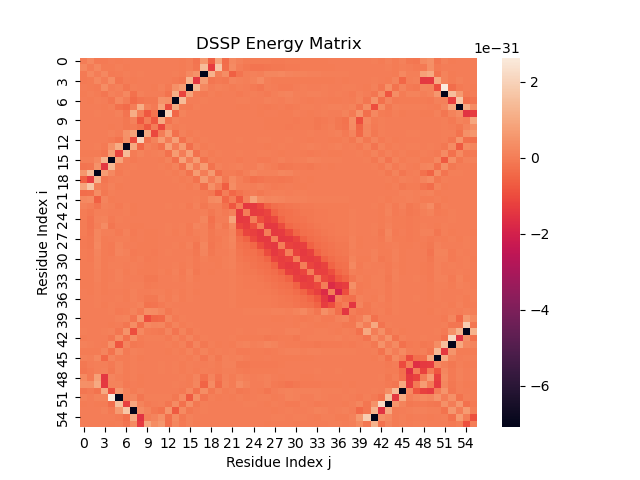
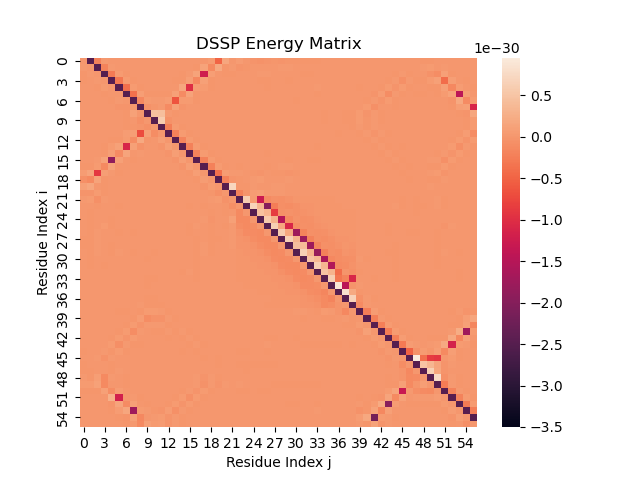
2405

diff --git a/Assignment04/Renschler-Sperl_Xu_Assignment04.py b/Assignment04/Renschler-Sperl_Xu_Assignment04.py
@@ -54,7 +54,6 @@ if __name__ == '__main__':
                 _, _, _, n_coords, h_coords = residue_list[j]
                 energy = calculate_energy(c_coords, o_coords, n_coords, h_coords)
                 dssp_matrix[i][j] = energy
-                dssp_matrix[j][i] = energy
 
     df = pd.DataFrame(dssp_matrix)
     df.index = [i[0] for i in residue_list]
